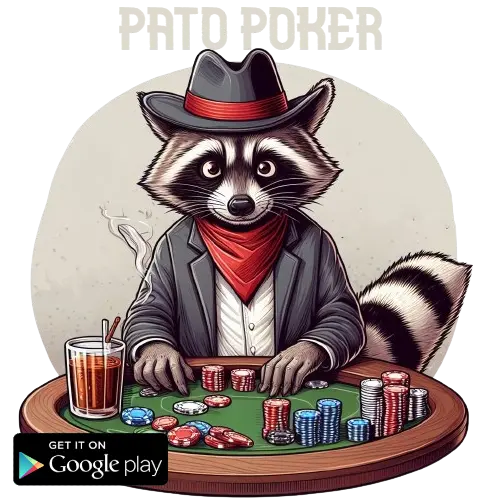
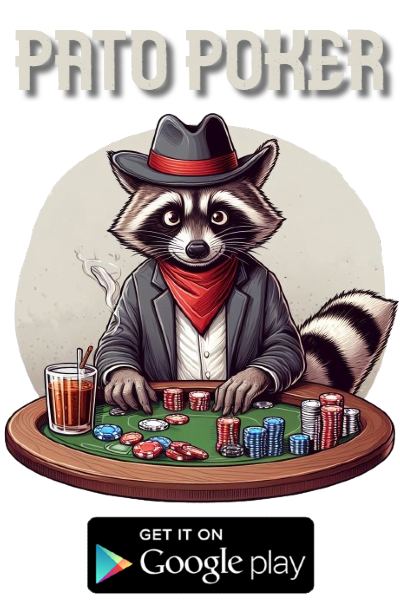
major changes for user panel components and basic structure for fetching bet data

diff --git a/FE/src/components/pages/postLogin/main/grouplist/GroupList.js b/FE/src/components/pages/postLogin/main/grouplist/GroupList.js
@@ -14,52 +14,51 @@ function YourComponent () {
   const fetchCompetitionData = async () => {
     try {
       // Ustawienie stanu ładowania na true przed wysłaniem żądania
-    
-  
+
       // Wysyłanie żądania GET do backendu
-      const response = await fetch(`http://localhost:5000/api/v1/competetition`, {
-        method: 'GET',
-        credentials: 'include', // Dodanie tego, jeśli istnieje konieczność uwierzytelnienia
-        headers: {
-          'Content-Type': 'application/json'
-          // Dodaj inne nagłówki, jeśli są wymagane
-        },
-      });
-  
+      const response = await fetch(
+        `http://localhost:5000/api/v1/competetition`,
+        {
+          method: 'GET',
+          credentials: 'include', // Dodanie tego, jeśli istnieje konieczność uwierzytelnienia
+          headers: {
+            'Content-Type': 'application/json'
+            // Dodaj inne nagłówki, jeśli są wymagane
+          }
+        }
+      )
+
       // Ustawienie stanu ładowania na false po odebraniu odpowiedzi
-   
-  
+
       if (response.ok) {
         // Pobranie danych z odpowiedzi w formacie JSON
-        const data = await response.json();
-  
+        const data = await response.json()
+
         // Ustawienie pobranych danych w stanie komponentu
-        setCompe(data);
+        // setCompe(data);
       } else {
         // Obsługa błędów, np. wyświetlenie komunikatu użytkownikowi
-  
+
         // Spróbuj sparsować błąd jako JSON, jeśli to możliwe
-        const errorData = await response.json();
-  
+        const errorData = await response.json()
+
         // Obsługa konkretnych kodów błędów
         if (errorData.code === 'E1') {
-          throw new Error(`Błąd podczas pobierania danych konkursu.`);
+          throw new Error(`Błąd podczas pobierania danych konkursu.`)
         } else {
-          throw new Error(`Niespodziewany błąd.`);
+          throw new Error(`Niespodziewany błąd.`)
         }
       }
     } catch (error) {
       // Ustawienie błędu, który zostanie wyświetlony użytkownikowi
-      console.error('Wystąpił błąd podczas pobierania danych:', error);
+      console.error('Wystąpił błąd podczas pobierania danych:', error)
     }
-  };
-  
+  }
+
   // Wywołanie funkcji pobierającej dane, np. w useEffect
   useEffect(() => {
-    fetchCompetitionData();
-  }, []);
-
-  console.log(compe);
+    fetchCompetitionData()
+  }, [])
 
   return (
     <div className='panel-side-box'>

diff --git a/FE/src/components/pages/postLogin/menu/predictions/betting/championsleague/clbet.css b/FE/src/components/pages/postLogin/menu/predictions/betting/championsleague/clbet.css
@@ -1,0 +1,99 @@
+.schedule-table {
+    margin-top: 20px;
+    width: 100%;
+    text-align: center;
+    border-collapse: collapse;
+    border-radius: 8px;
+    margin-bottom: 10px;
+    box-shadow: 0px 0px 3px rgba(0, 0, 0, 0.473);
+    ;
+    overflow-x: auto;
+  }
+
+  .schedule-table th,
+  .schedule-table td {
+    width: 100px;
+  }
+  
+  .schedule-table td {
+    margin: 10px 5px;
+    border: 1px solid       rgba(192, 192, 192, 0.452);
+    background-color: rgba(192, 192, 192, 0.103);
+    padding: 2px;
+  }
+  
+  .schedule-table th {
+    border: 1px solid rgba(192, 192, 192, 0.452);
+    padding: 8px;
+  }
+  
+
+
+
+
+
+
+
+
+
+
+
+
+
+
+
+
+
+
+
+
+
+
+
+  @media (max-width: 575.98px) {
+    .crest {
+      display: none;
+    }
+  
+    .schedule-table td {
+      margin: 10px 5px;
+      padding: 8px;
+    }
+  
+    .schedule {
+      margin: 0 0px;
+    }
+  }
+  
+  @media (min-width: 576px) and (max-width: 767.98px) {
+    .crest {
+      display: none;
+    }
+  
+    .schedule-table td {
+      margin: 10px 5px;
+      padding: 20px 0;
+    }
+  
+    .schedule {
+      margin: 0 0px;
+    }
+  }
+  
+  @media (min-width: 768px) and (max-width: 991.98px) {
+    .schedule {
+      margin: 0 0px;
+    }
+  }
+  
+  @media (min-width: 992px) and (max-width: 1199.98px) {
+    .schedule {
+      margin: 0 0px;
+    }
+  }
+  
+  @media (min-width: 1200px) and (max-width: 1670.98px) {
+    .schedule {
+      margin: 0 0px;
+    }
+  }

diff --git a/FE/src/components/pages/postLogin/menu/schedule/Schedule.js b/FE/src/components/pages/postLogin/menu/schedule/Schedule.js
@@ -18,7 +18,7 @@ function Schedule () {
     const getCompetitions = async () => {
       try {
         const competitionsResponse = await fetch(
-          'http://localhost:5000/api/v1/competetition',
+          'http://130.162.44.103:5000/api/v1/competetition',
           {
             method: 'GET',
             credentials: 'include',
@@ -50,7 +50,7 @@ function Schedule () {
     const getMatches = async () => {
       try {
         const matchesResponse = await fetch(
-          `http://localhost:5000/api/v1/matches?competetition=${selectedCompetition}&page=${currentPage}&limit=${limit}`,
+          `http://130.162.44.103:5000/api/v1/matches?competetition=${selectedCompetition}&page=${currentPage}&limit=${limit}`,
           {
             method: 'GET',
             credentials: 'include',
@@ -63,7 +63,7 @@ function Schedule () {
 
         if (matchesResponse.ok) {
           const matchesData = await matchesResponse.json()
-          console.log('Pobranie danych zakończone sukcesem:', matchesData)
+
           setMatchList(matchesData)
           setTotalMatches(matchesResponse.headers.get('X-Total-Count'))
         } else {

diff --git a/FE/src/components/pages/postLogin/menu/predictions/data/PredictionLogic.js b/FE/src/components/pages/postLogin/menu/predictions/data/PredictionLogic.js
@@ -1,4 +1,3 @@
-// PredictionLogin.js
 import { useEffect, useState } from 'react'
 
 export const PredictionLogic = () => {
@@ -14,7 +13,7 @@ export const PredictionLogic = () => {
     const getCompetitions = async () => {
       try {
         const competitionsResponse = await fetch(
-          'http://localhost:5000/api/v1/competetition',
+          'http://130.162.44.103:5000/api/v1/competetition',
           {
             method: 'GET',
             credentials: 'include',
@@ -42,13 +41,11 @@ export const PredictionLogic = () => {
     getCompetitions()
   }, [])
 
-  console.log('Prediction logic', selectedCompetition)
-
   useEffect(() => {
     const getMatches = async () => {
       try {
         const matchesResponse = await fetch(
-          `http://localhost:5000/api/v1/matches?competetition=${selectedCompetition}&page=${currentPage}&limit=${limit}`,
+          `http://130.162.44.103:5000/api/v1/bet?competetition=${selectedCompetition}&page=${currentPage}&limit=${limit}`,
           {
             method: 'GET',
             credentials: 'include',

diff --git a/FE/src/components/pages/postLogin/menu/predictions/betting/euro2024/Euro2024Bet.js b/FE/src/components/pages/postLogin/menu/predictions/betting/euro2024/Euro2024Bet.js
@@ -7,11 +7,12 @@ function Euro2024Bet ({ matchList }) {
   const [totalBets, setTobalBets] = useState(null)
   const limit = 10
   console.log('PONIŻEJ WYNIKI POBIERANIA BET:')
+
   useEffect(() => {
     const getMatches = async () => {
       try {
         const matchesResponse = await fetch(
-          `http://localhost:5000/api/v1/bet?competetition=${selectedCompetition}&page=${currentPage}&limit=${limit}`,
+          `http://130.162.44.103:5000/api/v1/bet?competetition=${selectedCompetition}&page=${currentPage}&limit=${limit}`,
           {
             method: 'GET',
             credentials: 'include',

diff --git a/FE/src/components/auth/login/Login.js b/FE/src/components/auth/login/Login.js
@@ -23,7 +23,7 @@ function Login () {
     try {
       setLoading(true)
       // Wysyłanie danych do backendu
-      const response = await fetch('http://localhost:5000/api/v1/login', {
+      const response = await fetch('http://130.162.44.103:5000/api/v1/login', {
         method: 'POST',
         credentials: 'include',
         headers: {

diff --git a/FE/src/components/pages/postLogin/context/UserContext.js b/FE/src/components/pages/postLogin/context/UserContext.js
@@ -7,7 +7,7 @@ function UserProvider ({ children }) {
 
   const updateUserProfile = async () => {
     try {
-      const url = 'http://localhost:5000/api/v1/profile'
+      const url = 'http://130.162.44.103:5000/api/v1/profile'
       const response = await fetch(url, {
         method: 'GET',
         credentials: 'include',

diff --git a/FE/src/components/pages/postLogin/main/grouplist/euro2024/Euro2024.js b/FE/src/components/pages/postLogin/main/grouplist/euro2024/Euro2024.js
@@ -1,9 +1,8 @@
 import { useState } from 'react'
 import groupsData from '../groupData/groupsData'
-import "./euro2024.css"
+import './euro2024.css'
 
 function Euro2024 () {
-  console.log(groupsData)
   const [selectedGroup, setSelectedGroup] = useState('Grupa A')
 
   const handleChange = e => {

diff --git a/FE/src/components/pages/postLogin/main/ads/Ads.js b/FE/src/components/pages/postLogin/main/ads/Ads.js
@@ -10,7 +10,7 @@ function Ads () {
       </h2>
 
       <div className='ad-box'>
-        <img className='patopoker' src={PatoPoker} alt='' width={250} />
+        <img className='patopoker' src={PatoPoker} alt='' width={220} />
       </div>
     </div>
   )

diff --git a/FE/src/components/pages/postLogin/main/ads/ads.css b/FE/src/components/pages/postLogin/main/ads/ads.css
@@ -10,7 +10,7 @@
     display: flex;
     justify-content: center;
     align-items: center;
-    height: 300px;
+   margin-bottom: 15px;
 }
 
 .patopoker{

diff --git a/FE/src/components/pages/postLogin/menu/predictions/betting/championsleague/CLBet.js b/FE/src/components/pages/postLogin/menu/predictions/betting/championsleague/CLBet.js
@@ -1,3 +1,5 @@
+import './clbet.css'
+
 function CLBet ({ matchList }) {
   return matchList.length > 0 ? (
     <table className='schedule-table'>
